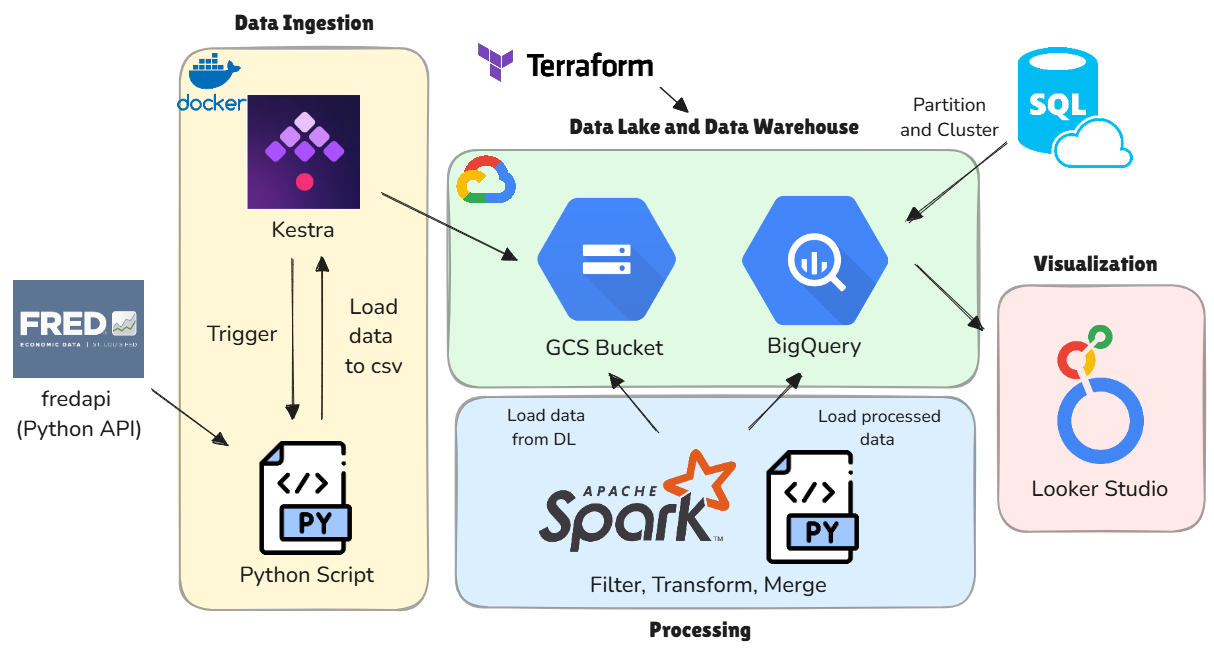
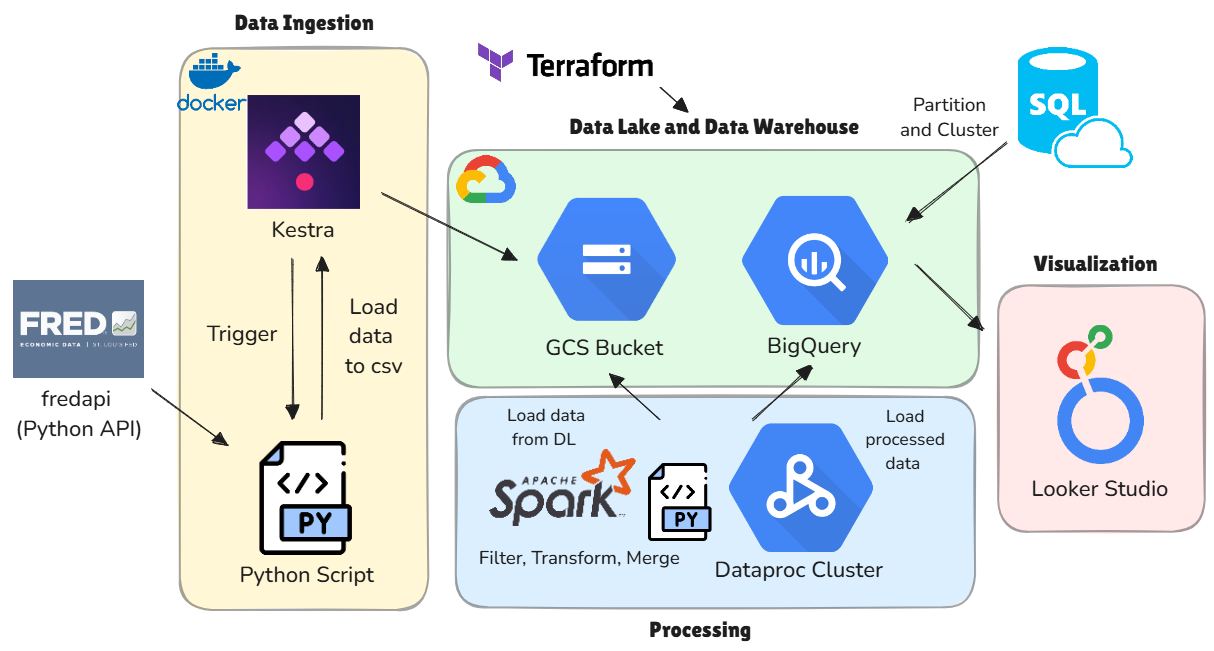
Updated Readme

diff --git a/README.md b/README.md
@@ -1,23 +1,23 @@
-# EcoPulse: Data Pipeline for Economic Data Insights
+# EcoPulse: End-to-End Data Pipeline for Economic Insights
 
 ## Project Overview
 
-**EcoPulse** is a data engineering project designed to analyze key economic indicators through an **end-to-end batch data pipeline**. The pipeline automates the ingestion, processing, and storage of economic data in a structured, query-optimized format. This solution provides seamless analysis through an interactive dashboard, enabling data-driven decision-making across industries such as finance, policy, and business strategy.
+**EcoPulse** is a cloud-native data engineering project designed to analyze key economic indicators through an **end-to-end batch data pipeline**. The pipeline automates the ingestion, processing, and storage of economic data in a structured, query-optimized format. This solution provides seamless analysis through an interactive dashboard, enabling data-driven decision-making across industries such as finance, policy, and business strategy.
 
-## Problem Statement
+## 🎯 Problem Statement
 
 In today's fast-paced world, monitoring and analyzing key economic indicators—such as stock market, inflation, housing prices, and so on— is critical for making informed decisions in finance, policymaking, and business. However, gathering this data can often be a tedious and time-consuming task, especially when relying on manually pulling information from various sources.
 
-**EcoPulse** automates this process by:
-1. Extracting economic data from the Federal Reserve Economic Data (FRED) Python API.
+**EcoPulse** automates this workflow by:
+1. Extracting economic data from the **Federal Reserve Economic Data (FRED) Python API**.
 
-2. Loading raw data into a GCS data lake.
+2. Storing raw data in GCS as a data lake.
 
-3. Processing and transforming the data with Apache Spark.
+3. Processing data with **Apache Spark** on Dataproc.
 
-4. Storing structured, partitioned, and clustered data in BigQuery for downstream analytics.
+4. Storing structured, partitioned, and clustered data in BigQuery for analytics.
 
-5. Visualizing insights through an interactive dashboard.
+5. Visualizing insights through an interactive dashboard in **Looker Studio**.
 
 Here are the key economic indicators processed:
 
@@ -28,27 +28,26 @@ Here are the key economic indicators processed:
 - **Economic Activity**: Industrial Production Index
 - **Housing Market**: House Price Index (Case-Shiller National Home Price Index)
 
-## Architecture and Highlights
+## 🏗 Architecture and Highlights
 
 ![EcoPulse Architecture](images/EcoPulse_Architecture_png.png)
 
 ### Solution Highlights:
 
-✅ **Cloud-Native & Infrastructure as Code (IaC)**: built on GCP, leveraging cloud-based services to ensure scalability and reliability. **Terraform** is used as IaC tool to automate cloud resource provisioning.
+✅ **Cloud-Native & Infrastructure as Code (IaC)**: leverages cloud-based services to ensure scalability and reliability. **Terraform** is used as IaC tool to automate cloud resource provisioning.
 
 ✅ **Batch Data Pipeline with Workflow Orchestration**: follows a structured batch processing workflow, orchestrated using **Kestra** to automate data ingestion and load to GCS data lake storage.
 
-✅ **Optimized Data Warehouse Design**: The data warehouse is structured in **BigQuery**, where tables are partitioned and clustered to enhance query performance and minimize costs. This ensures efficient data retrieval for analytical use cases.
+✅ **Optimized Data Warehouse**: The data warehouse is structured in **BigQuery**, where tables are partitioned and clustered to enhance query performance and minimize costs. 
 
-✅ **Transformations with Spark**: The data undergoes transformations using **Apache Spark**, ensuring efficient handling of large datasets and preparing them for downstream analytics.
+✅ **Transformations with Spark**: The data undergoes transformations using **Apache Spark** and **Dataproc Cluster**, ensuring efficient handling of large datasets and preparing them for downstream analytics.
 
-✅ **Interactive Dashboard**: built using Looker Studio to provide insights into economic trends.
+✅ **Interactive Dashboard**: built using **Looker Studio** to provide insights into economic trends.
 
 
-## 🚀 Terraform Infrastructure Setup
+## 🚀 Infrastructure Setup with Terraform
 
-The EcoPulse project leverages **Terraform** to provision and manage cloud resources efficiently. This ensures infrastructure as code (IaC) best practices, making deployments reproducible, scalable, and maintainable.
-
+EcoPulse leverages **Terraform** to provision cloud resources efficiently. This ensures infrastructure as code (IaC) best practices, making deployments reproducible, scalable, and maintainable.
 
 ### 🛠 Prerequisites
 - [Terraform](https://developer.hashicorp.com/terraform/downloads)
@@ -67,31 +66,32 @@ cd Terraform
 ./deploy.sh
 ```
 
-## 🔄 Ingestion - Kestra & Python
+## 🔄 Ingestion with Kestra & Python
 
-EcoPulse leverages **Kestra** for workflow orchestration, automating the data pipeline to load the data through FRED API in a Python script and upload to GCS data lake.
+EcoPulse leverages **Kestra** for workflow orchestration, automating data retrieval via the FRED API and uploading it to GCS.
 
 ### 🛠 Prerequisites
 - [Docker](https://www.docker.com/products/docker-desktop/) & [Docker Compose](https://docs.docker.com/compose/install/)
 - A FRED API Key (Get one from the [FRED website](https://fredaccount.stlouisfed.org/apikeys))
+- A GCP Service Account with the required permissions 
 
-### 📌 Spinning Up Kestra
+### 📌 Start Kestra
 Run the following command to start Kestra using Docker Compose:
 
 ```bash
 cd Kestra
 docker-compose up
 ```
-After Kestra UI is loaded, we can proceed to run two flows:
+After Kestra UI is loaded, we can run two following flows:
 
-### 🔑 set_kv: Setting Up Environment Variables
+### 🔑 set_kv: Configures Environment Variables
 
 The flow ([set_kv.yaml](Kestra/set_kv.yaml)) configure the following project variables:
 - `gcp_project_id`
 - `gcp_location`
 - `gcp_bucket_name`
 
-### ⚡ data_load_gcs: Running the Ingestion
+### ⚡ data_load_gcs: Fetches data, saves as CSV, and uploads to GCS
 
 The [data_load_gcs.yaml](Kestra/data_load_gcs.yaml) flow orchestrates the entire ingestion pipeline:
 
@@ -102,4 +102,128 @@ The [data_load_gcs.yaml](Kestra/data_load_gcs.yaml) flow orchestrates the entire
 Kestra Topology Diagram:
 <p align="center"> <img src="images/Kestra Flow Diagram.png" height="300" />
 </p>
+
+## ⚡ Processing with Spark
+EcoPulse leverages **Apache Spark** for scalable and efficient data transformations. Spark processes economic data stored in GCS bucket, transforms it, and then loads the transformed data into BigQuery for downstream analysis.
+
+### 🛠 Prerequisites
+Depending on whether you want to use local vs cloud setup, ensure you have the following installed:
+
+#### Running Locally:
+- Python 3.12 (or your preferred version)
+- Apache Spark
+
+#### Running through GCP Dataproc Cluster:
+- Google Cloud SDK (`gcloud`)
+- A service Account with the required permissions
+- Required JARs for Spark on Dataproc:
+  - gcs-connector-hadoop3-latest.jar
+  - spark-bigquery-with-dependencies_2.12-0.24.0.jar
+
+### 🔄 Transformation Steps
+The Spark transformation job performs the following steps:
+1. Load raw data from GCS into Spark dataframe
+2. Filter each dataframe to last 10 years of economic data
+3. For the daily level series (`SP500`, `DGS10`, `VIXCLS`, `EFFR`), merge using the date column.
+4. Add a categorical column that indicates the level of daily change on the `SP500` index.
+5. Add `Month`, `Year` and `Year-Month` columns.
+6. Similarly, process the monthly level series (Step 3 and 5).
+7. Merge daily and monthly data on `Year-Month` for final processed table.
+8. Load transformed data into BigQuery as the data warehouse.
+
+![Transform Steps](images/Transform_Diagram.png)
+
+### 🚀 Running the PySpark Job through Dataproc Cluster
+
+**Step 1**: Create a dataproc cluster through [create_dataproc_cluster.sh](Spark/Dataproc%20Scripts/create_dataproc_cluster.sh):
+
+```bash
+cd Spark/Dataproc Scripts
+chmod +x create_dataproc_cluster.sh
+./create_dataproc_cluster.sh
+```
+
+**Step 2**: Submit Spark job to Dataproc through [submit_dataproc_job.sh](Spark/Dataproc%20Scripts/submit_dataproc_job.sh):
+
+```bash
+chmod +x submit_dataproc_job.sh
+./submit_dataproc_job.sh
+```
+
+## 🏛 Data Warehousing in BigQuery
+
+EcoPulse leverages **BigQuery** as the cloud data warehouse, ensuring efficient storage and analytical querying of economic data. The data is structured, partitioned/clustered, and optimized to support high-performance queries while minimizing costs.
+
+### 🏗 Schema Optimization: Partitioning & Clustering
+To enhance query performance and reduce costs, the main dataset is:
+- ✅ Partitioned by date → Improves query efficiency by filtering certain range of dates
+- ✅ Clustered (optional for further optimization) → Groups data by categorical column `SP500_daily_change_category`
+
+### 📌 Creating the Partitioned Table
+**Option 1**: Use the `bq` CLI:
+```bash
+cd BigQuery
+bq query --use_legacy_sql=false -q < create_partitioned_table.sql
+```
+
+**Option 2**: Use **Query Editor** in **BigQuery** console and run the SQL query in [create_partitioned_table.sql](BigQuery/create_partitioned_table.sql).
+
+
+### 📌 Creating the Partitioned and Clustered Table
+**Option 1**: Use the `bq` CLI:
+```bash
+cd BigQuery
+bq query --use_legacy_sql=false -q < create_partitioned_clustered_table.sql
+```
+
+**Option 2**: Use **Query Editor** in **BigQuery** console and run the SQL query in [create_partitioned_clustered_table.sql](BigQuery/create_partitioned_clustered_table.sql).
+
+
+### 🔹How Partitioning & Clustering Work Together
+- Partitioning (`date`) → First, BigQuery divides the data into partitions based on the date column.
+- Clustering (`SP500_daily_change_category`) → Within each partition, BigQuery physically sorts and groups data by `SP500_daily_change_category`.
+- Query Optimization:
+  - Queries filtering by `date` scan only relevant partitions.
+  - Queries filtering by `SP500_daily_change_category` within a partition run even faster due to clustering.
+
+## 📊 Data Vizualization in Looker Studio
+
+EcoPulse leverages **Looker Studio** to create an interactive dashboard that visualizes key economic indicators. The dashboard provides near real-time insights into economic trends, enabling data-driven decision-making.
+
+### 🛠 Prerequisites
+Before building the dashboard, ensure you have:
+
+- A Google Cloud account with access to BigQuery.
+- A BigQuery dataset (`ecopulse_bq_dw`) containing processed economic data that Looker Studio can connect to.
+
+### 📈 Dashboard Design & Visualizations
+- Date Range Controls
+- Daily Trending of Financial Market Signals
+- Distribution of SP500 Daily Change Category
+- Monthly Trending of Inflation and Housing Signals
+- Table of Labor Market and Economic Acticity Signals
+
+Link to the Looker Studio Dashboard [here](https://lookerstudio.google.com/u/1/reporting/6fd3eacb-9f92-43a9-93e3-7f0de59e56ea/page/WBrEF).
+
+
+![Dashboard](images/Dashboard_Snapshot.png)
+
+
+## 🔮 Future Improvement Opportunities
+- Add additional economic indicators (e.g., international trade data)
+- Automate Spark job execution via Kestra
+- Implement scheduled workflows for daily updates
+- Expand dashboard visualizations with predictive analytics
+- Replicate the architecture using Azure and AWS.
+
+## 🎉 Acknowledgments
+**EcoPulse** is built using:
+- FRED API for the source of economic data
+- Google Cloud Platform (GCS, BigQuery, Dataproc)
+- Kestra for workflow orchestration
+- Apache Spark for scalable data transformations
+- Looker Studio for visualization
+
+This project is created as part of the [Data Engineering Zoomcamp 2025 course](https://github.com/DataTalksClub/data-engineering-zoomcamp). Special thanks to [DataTalkClub](https://github.com/DataTalksClub) for the learning opportunity.
+
 

diff --git a/Spark/README.md b/Spark/README.md
@@ -1,0 +1,43 @@
+### 🛠 Prerequisites
+Depending on whether you want to use local vs cloud setup, ensure you have the following installed:
+
+#### Running Locally:
+- Python 3.12 (or your preferred version)
+- Apache Spark
+
+#### Running through GCP Dataproc Cluster:
+- Google Cloud SDK (`gcloud`)
+- A service Account with the required permissions
+- Required JARs for Spark on Dataproc:
+  - gcs-connector-hadoop3-latest.jar
+  - spark-bigquery-with-dependencies_2.12-0.24.0.jar
+
+### 🔄 Transformation Steps
+The Spark transformation job performs the following steps:
+1. Load raw data from GCS into Spark dataframe
+2. Filter each dataframe to last 10 years of economic data
+3. For the daily level series (`SP500`, `DGS10`, `VIXCLS`, `EFFR`), merge using the date column.
+4. Add a categorical column that indicates the level of daily change on the `SP500` index.
+5. Add `Month`, `Year` and `Year-Month` columns.
+6. Similarly, process the monthly level series (Step 3 and 5).
+7. Merge daily and monthly data on `Year-Month` for final processed table.
+8. Load transformed data into BigQuery as the data warehouse.
+
+![Transform Steps](images/Transform_Diagram.png)
+
+### 🚀 Running the PySpark Job through Dataproc Cluster
+
+**Step 1**: Create a dataproc cluster through [create_dataproc_cluster.sh](Spark/Dataproc%20Scripts/create_dataproc_cluster.sh):
+
+```bash
+cd Spark/Dataproc Scripts
+chmod +x create_dataproc_cluster.sh
+./create_dataproc_cluster.sh
+```
+
+**Step 2**: Submit Spark job to Dataproc through [submit_dataproc_job.sh](Spark/Dataproc%20Scripts/submit_dataproc_job.sh):
+
+```bash
+chmod +x submit_dataproc_job.sh
+./submit_dataproc_job.sh
+```

diff --git a/BigQuery/README.md b/BigQuery/README.md
@@ -1,0 +1,31 @@
+### 🏗 Schema Optimization: Partitioning & Clustering
+To enhance query performance and reduce costs, the main dataset is:
+- ✅ Partitioned by date → Improves query efficiency by filtering certain range of dates
+- ✅ Clustered (optional for further optimization) → Groups data by categorical column `SP500_daily_change_category`
+
+### 📌 Creating the Partitioned Table
+**Option 1**: Use the `bq` CLI:
+```bash
+cd BigQuery
+bq query --use_legacy_sql=false -q < create_partitioned_table.sql
+```
+
+**Option 2**: Use **Query Editor** in **BigQuery** console and run the SQL query in [create_partitioned_table.sql](BigQuery/create_partitioned_table.sql).
+
+
+### 📌 Creating the Partitioned and Clustered Table
+**Option 1**: Use the `bq` CLI:
+```bash
+cd BigQuery
+bq query --use_legacy_sql=false -q < create_partitioned_clustered_table.sql
+```
+
+**Option 2**: Use **Query Editor** in **BigQuery** console and run the SQL query in [create_partitioned_clustered_table.sql](BigQuery/create_partitioned_clustered_table.sql).
+
+
+### 🔹How Partitioning & Clustering Work Together
+- Partitioning (`date`) → First, BigQuery divides the data into partitions based on the date column.
+- Clustering (`SP500_daily_change_category`) → Within each partition, BigQuery physically sorts and groups data by `SP500_daily_change_category`.
+- Query Optimization:
+  - Queries filtering by `date` scan only relevant partitions.
+  - Queries filtering by `SP500_daily_change_category` within a partition run even faster due to clustering.

diff --git a/Kestra/README.md b/Kestra/README.md
@@ -1,0 +1,32 @@
+### 🛠 Prerequisites
+- [Docker](https://www.docker.com/products/docker-desktop/) & [Docker Compose](https://docs.docker.com/compose/install/)
+- A FRED API Key (Get one from the [FRED website](https://fredaccount.stlouisfed.org/apikeys))
+- A GCP Service Account with the required permissions 
+
+### 📌 Start Kestra
+Run the following command to start Kestra using Docker Compose:
+
+```bash
+cd Kestra
+docker-compose up
+```
+After Kestra UI is loaded, we can run two following flows:
+
+### 🔑 set_kv: Configures Environment Variables
+
+The flow ([set_kv.yaml](Kestra/set_kv.yaml)) configure the following project variables:
+- `gcp_project_id`
+- `gcp_location`
+- `gcp_bucket_name`
+
+### ⚡ data_load_gcs: Fetches data, saves as CSV, and uploads to GCS
+
+The [data_load_gcs.yaml](Kestra/data_load_gcs.yaml) flow orchestrates the entire ingestion pipeline:
+
+- Fetches data from the FRED API in Python and saves as CSV files
+- Uploads the CSVs to the specified GCS bucket.
+- Purges temporary files to keep the workflow clean.
+
+Kestra Topology Diagram:
+<p align="center"> <img src="../images/Kestra Flow Diagram.png" height="300" />
+</p>

diff --git a/Terraform/README.md b/Terraform/README.md
@@ -1,0 +1,25 @@
+### Provisioned GCP Resources
+- GCS Bucket
+- Google BigQuery
+
+### 🛠 Prerequisites
+- [Terraform](https://developer.hashicorp.com/terraform/downloads)
+- Google Cloud SDK (`gcloud`)  
+- A GCP Service Account with the required permissions  
+
+### 🔑 Authentication
+Authenticate using your **GCP Service Account**:
+```bash
+source Terraform/setup.sh
+```
+
+### 🚀 Deploying Infrastructure
+```bash
+cd Terraform
+./deploy.sh
+```
+
+### Clean Up Resources
+```bash
+terraform destroy
+```
